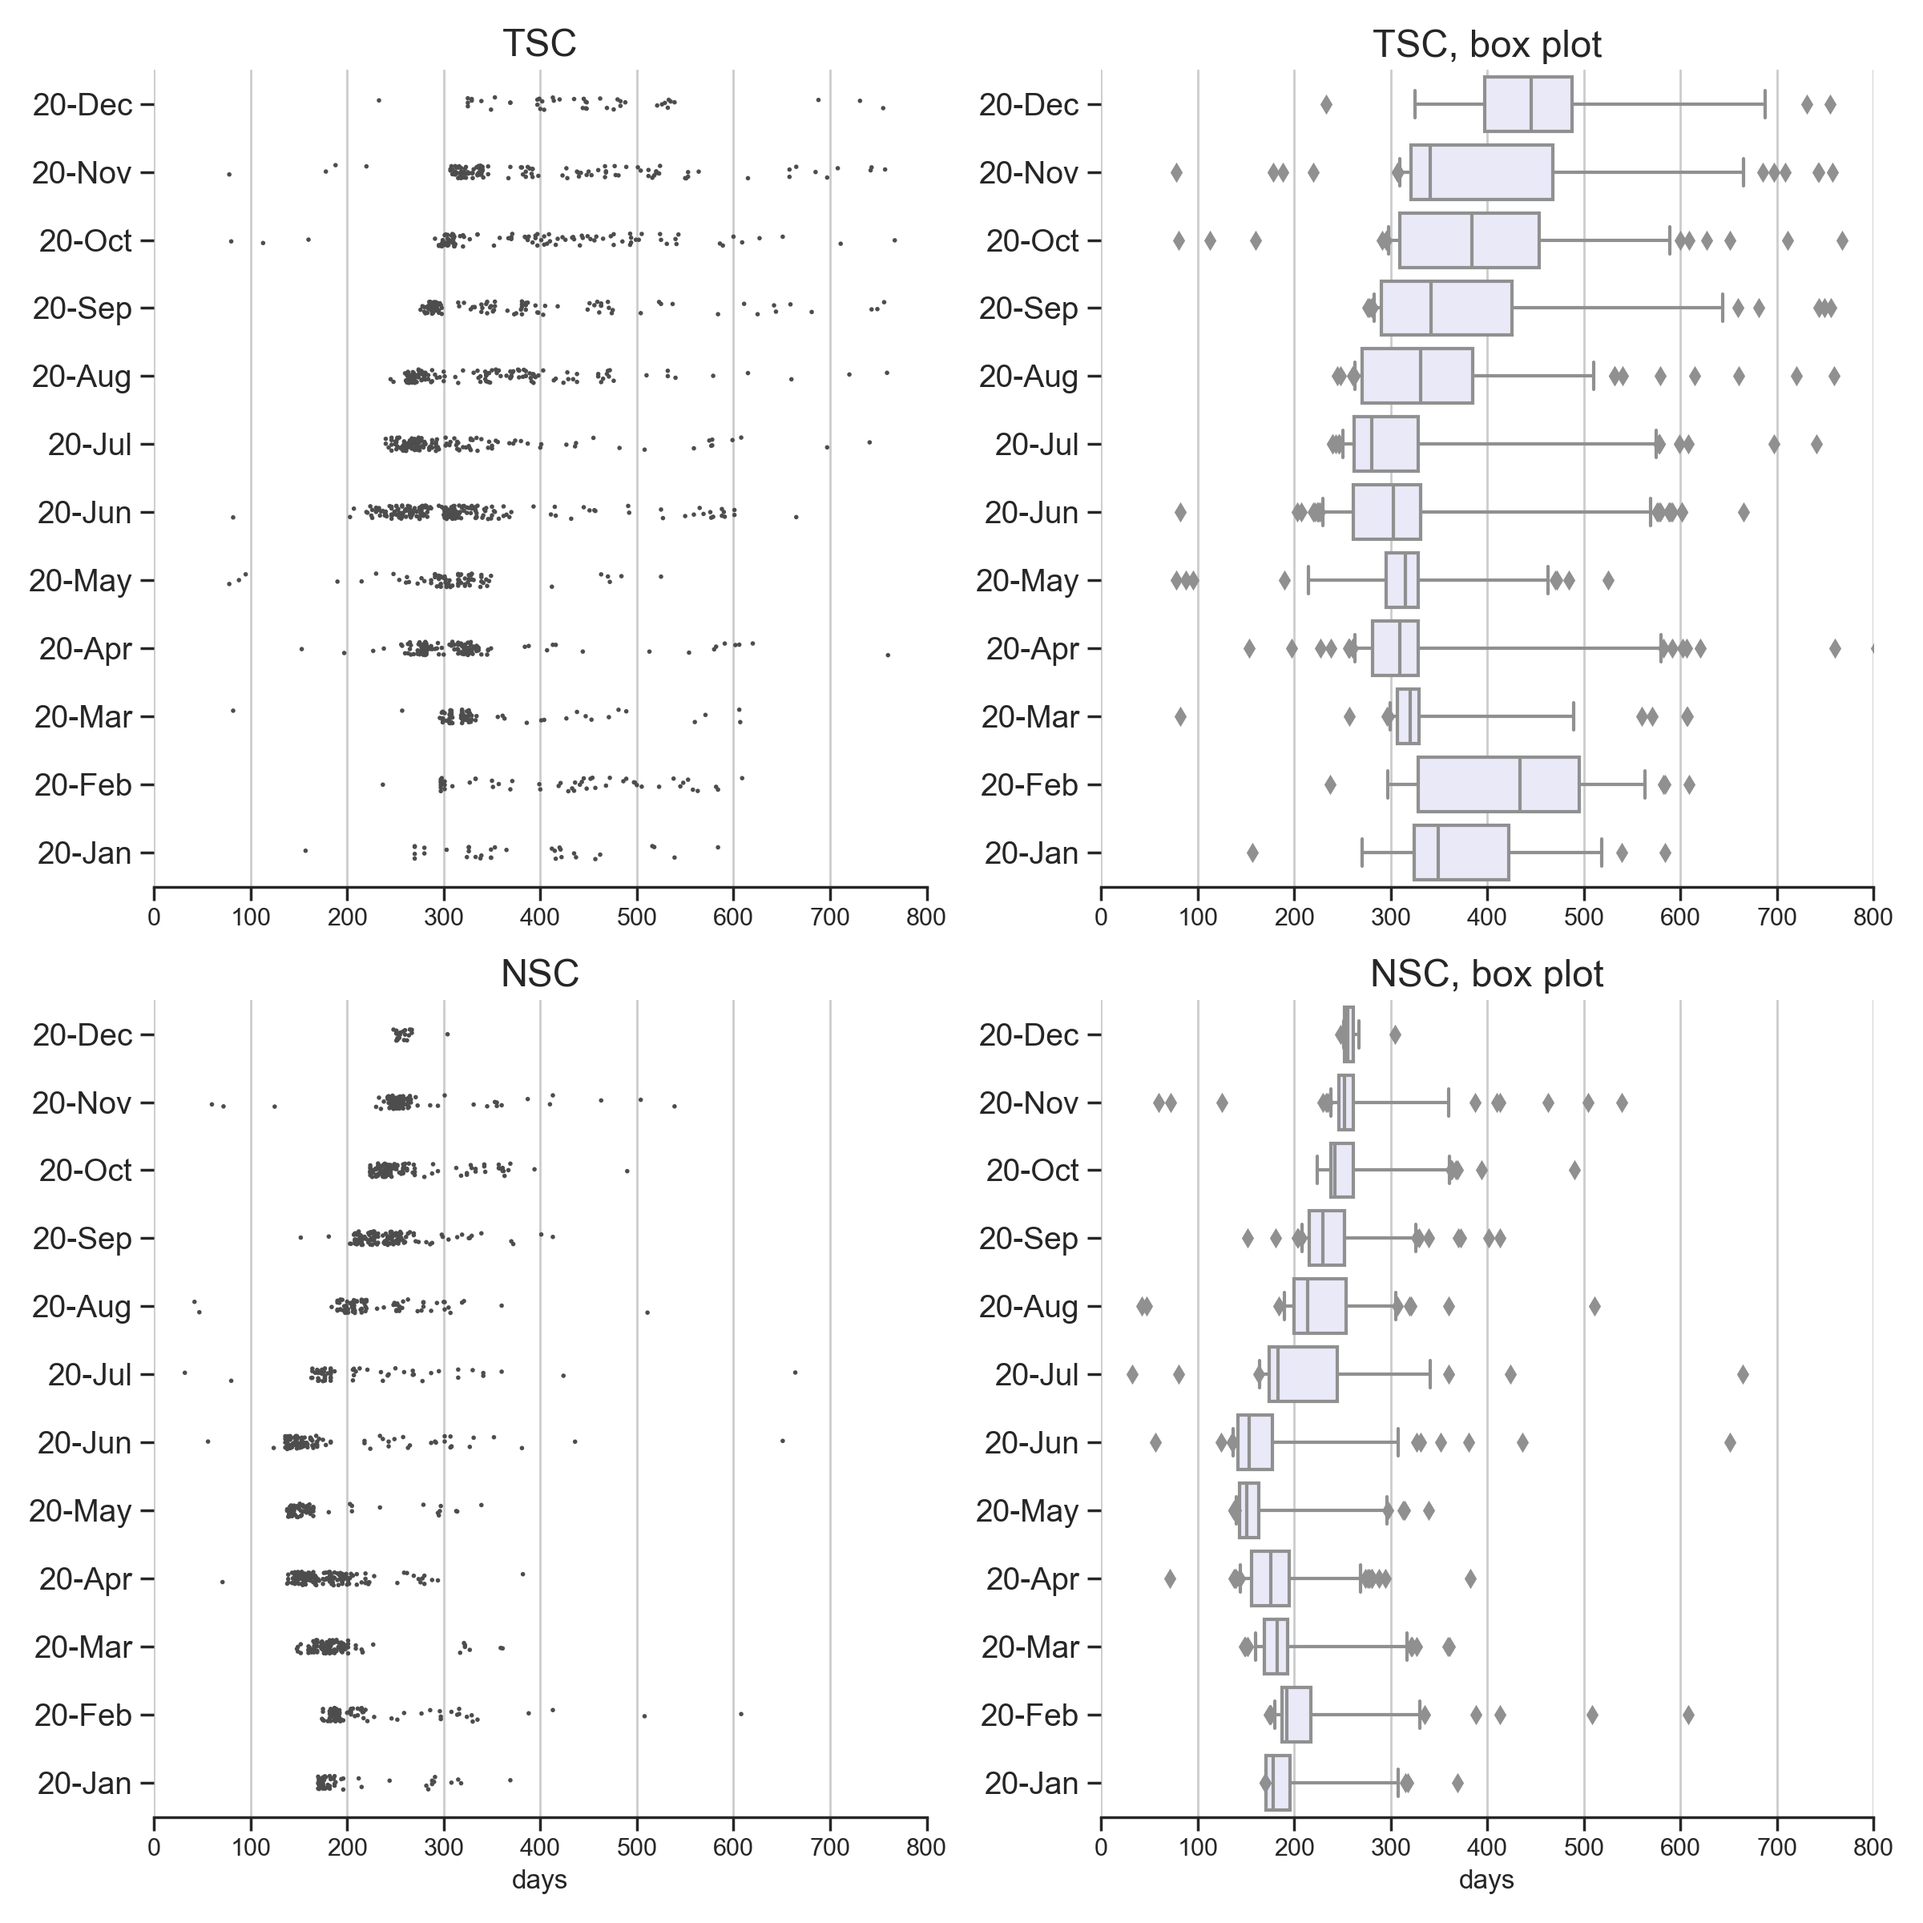
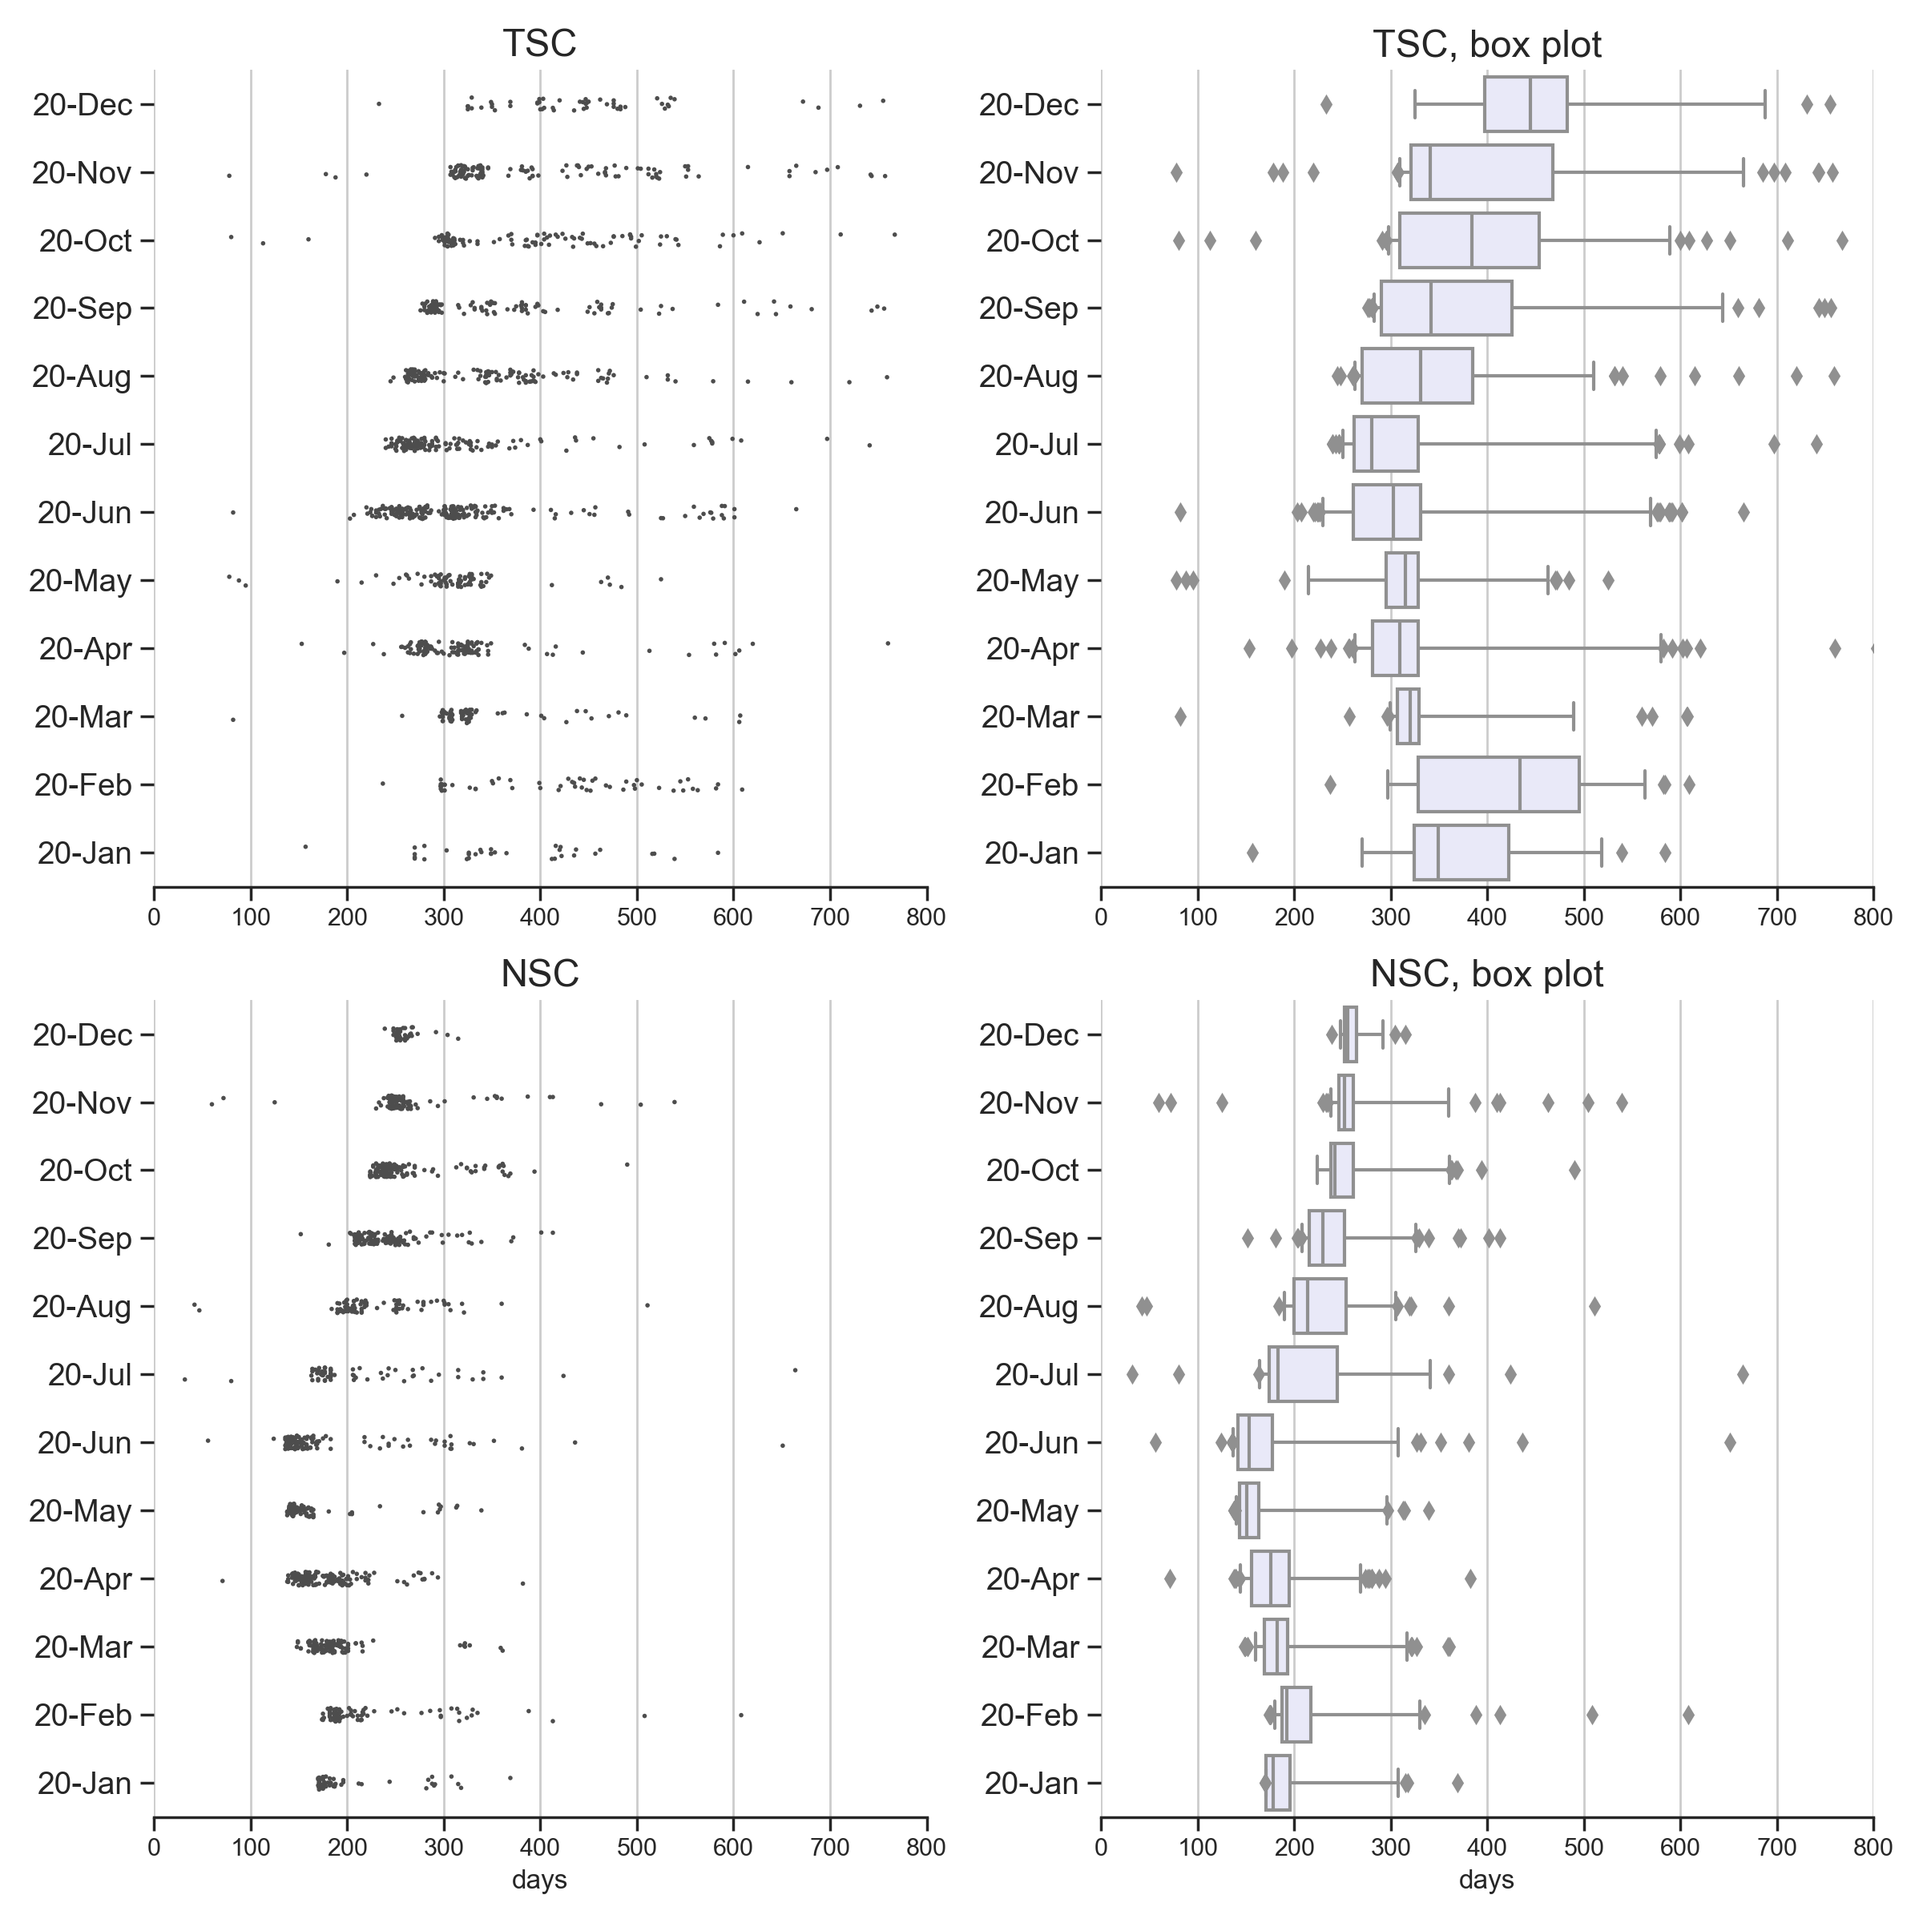
updated dec-22

diff --git a/README.md b/README.md
@@ -1,4 +1,4 @@
-## National Interest Waiver Wait Time, updated Dec-17-2020 
+## National Interest Waiver Wait Time, updated Dec-22-2020 
 USCIS Employment-based-2 NIW I-140 wait time before approval (data source: [Victoria Chen](https://www.wegreened.com/eb1_niw_approvals)). 
  
 1. Distribution plot of wait time before approval by month, divided into Texas center and Nebraska center (diamonds are <5% or >95% outliers) 
